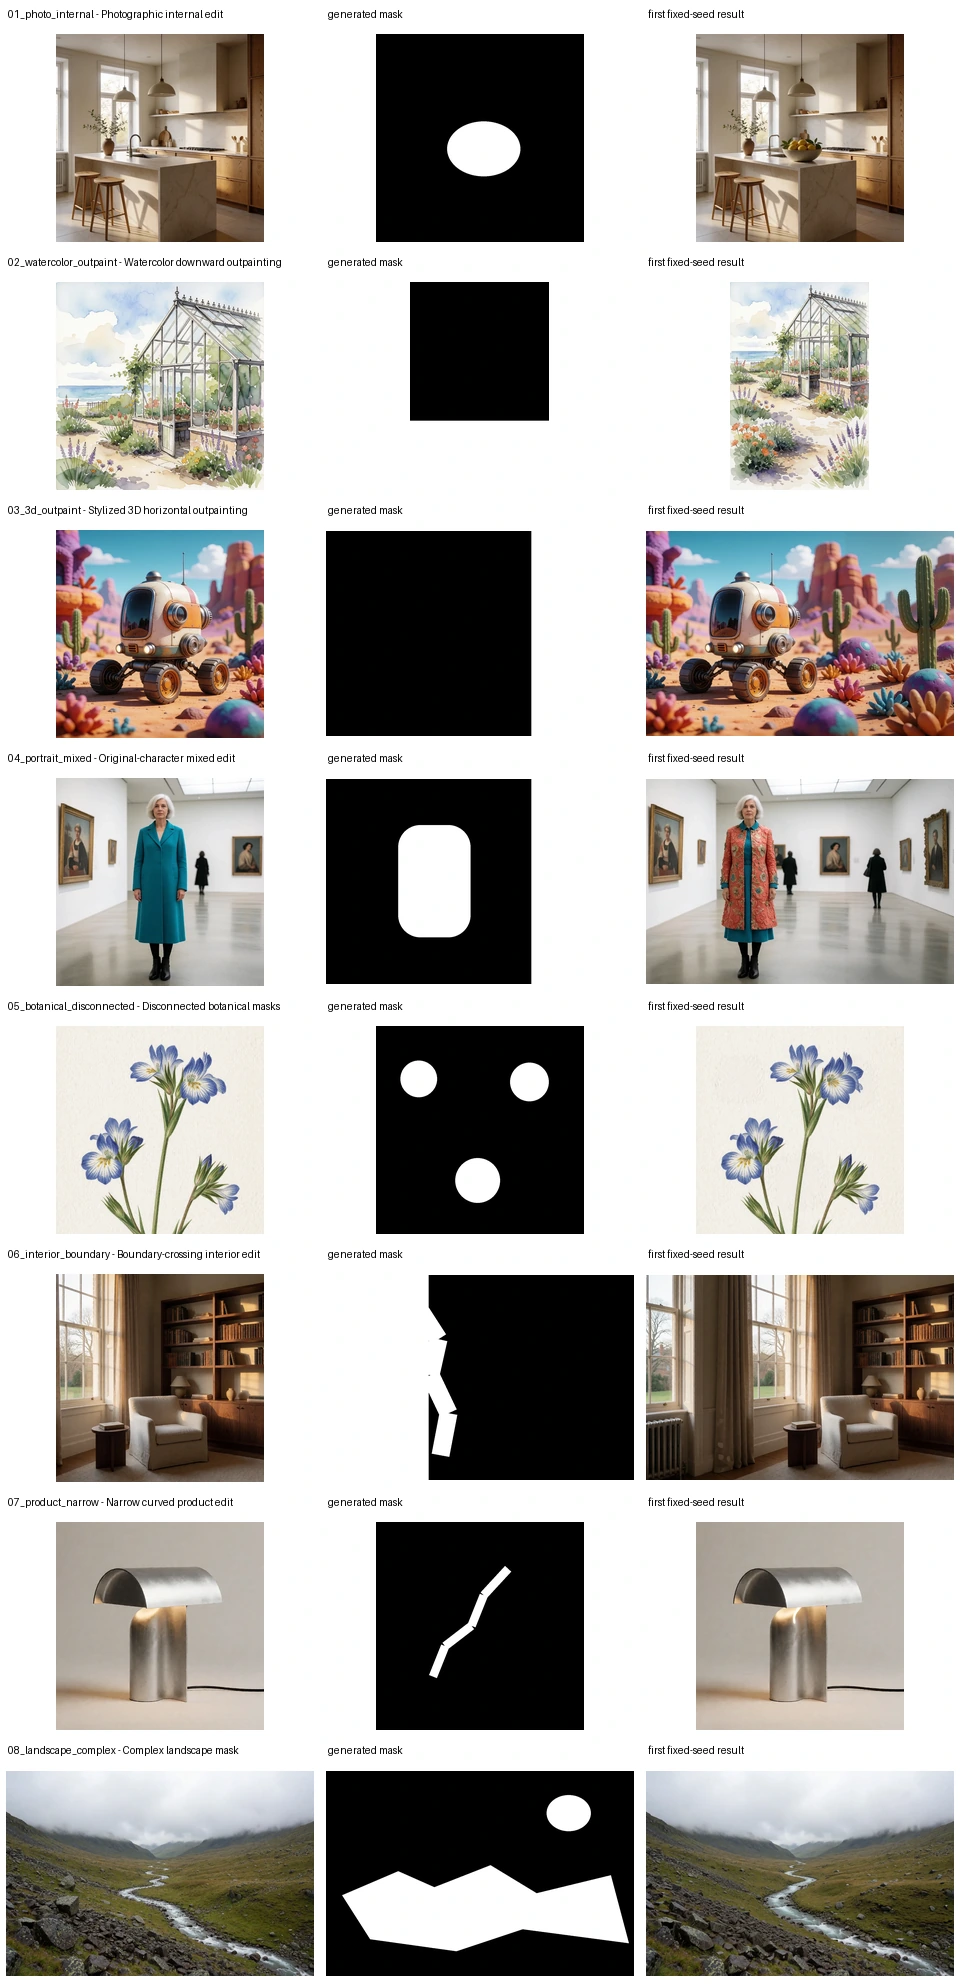
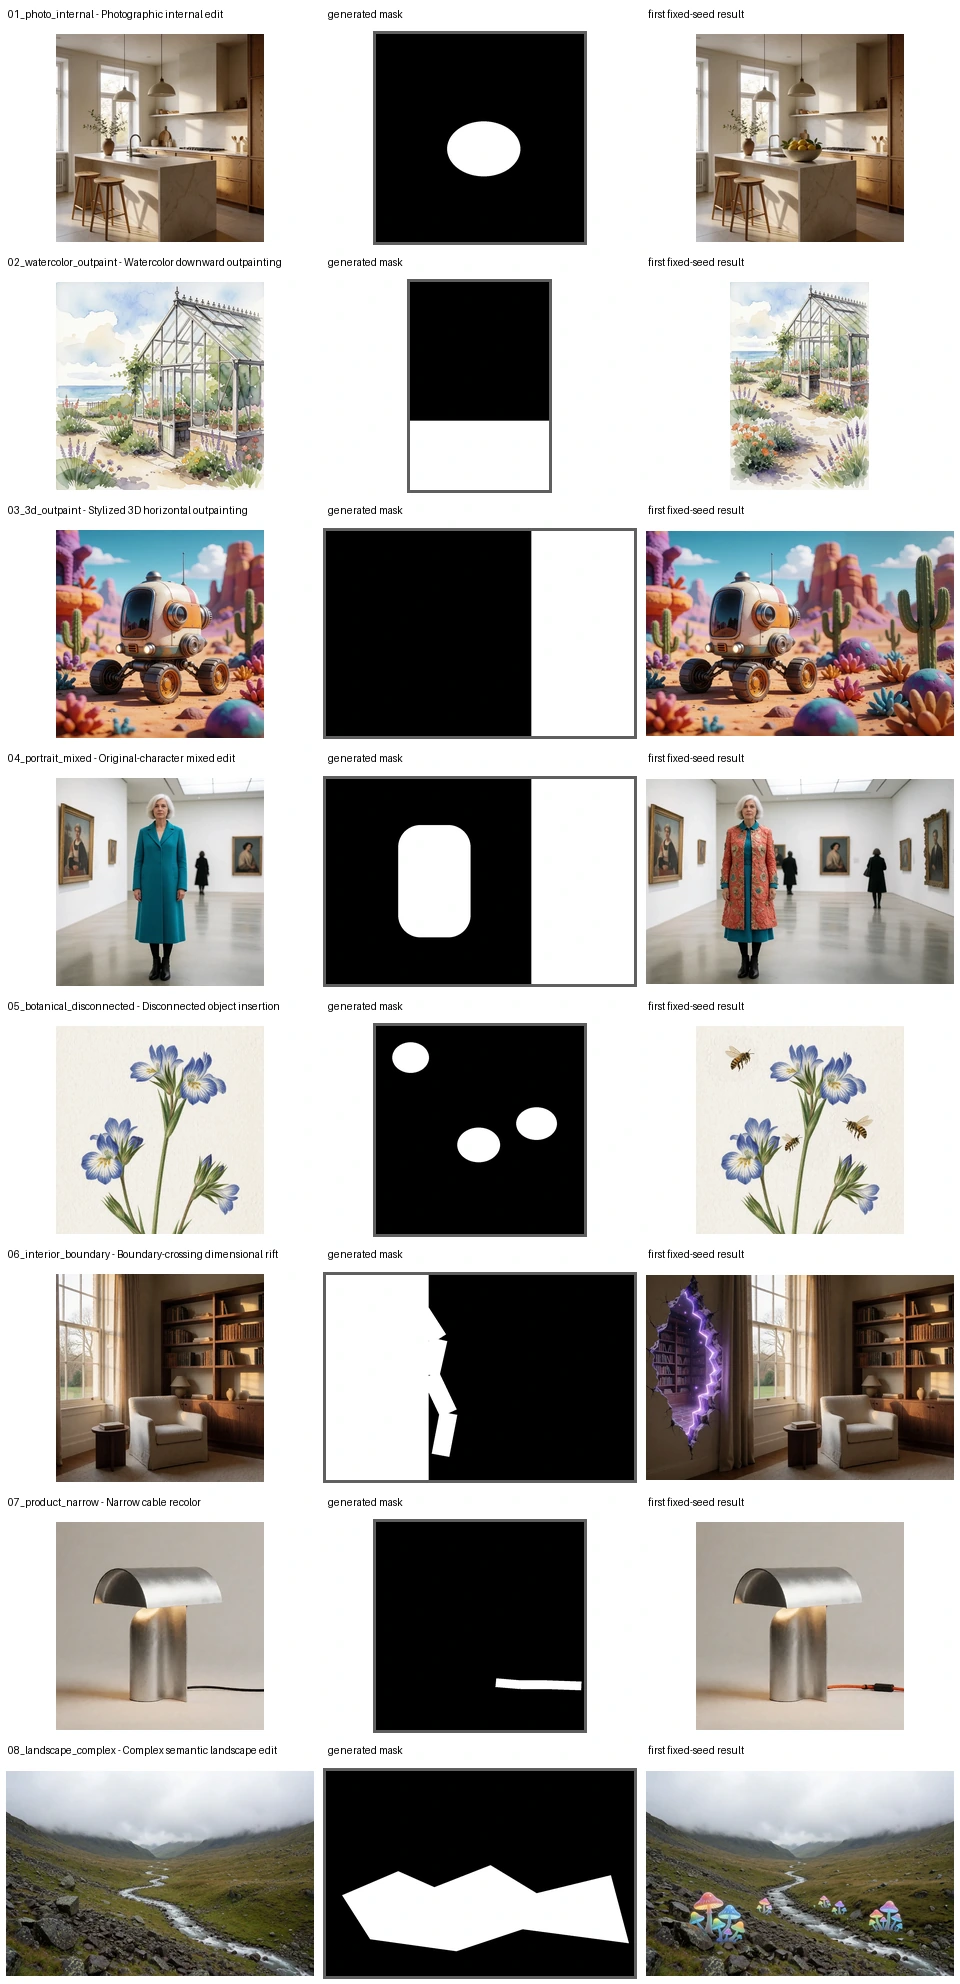
Align ComfyUI runtime and showcase

diff --git a/anypaint_helpers.py b/anypaint_helpers.py
@@ -2,6 +2,8 @@ from __future__ import annotations
 
 import math
 
+import numpy as np
+from PIL import Image
 import torch
 import torch.nn.functional as F
 
@@ -23,15 +25,21 @@ def _resize_mask(mask: torch.Tensor, height: int, width: int) -> torch.Tensor:
     return F.interpolate(mask[:, None].float(), (height, width), mode="nearest")[:, 0]
 
 
-def _resize_reference(image: torch.Tensor, max_edge: int) -> torch.Tensor:
-    _, height, width, _ = image.shape
-    scale = min(1.0, max_edge / max(height, width))
-    target_h = max(ALIGNMENT, int(round(height * scale / ALIGNMENT)) * ALIGNMENT)
-    target_w = max(ALIGNMENT, int(round(width * scale / ALIGNMENT)) * ALIGNMENT)
-    if (target_h, target_w) == (height, width):
-        return image
-    chw = image.movedim(-1, 1)
-    return F.interpolate(chw, (target_h, target_w), mode="bilinear", align_corners=False).movedim(1, -1)
+def _tensor_to_pil(image: torch.Tensor) -> Image.Image:
+    values = image.detach().cpu().clamp(0, 1).mul(255).round().to(torch.uint8).numpy()
+    return Image.fromarray(values[..., :3], mode="RGB")
+
+
+def _pil_to_tensor(image: Image.Image, device: torch.device) -> torch.Tensor:
+    values = np.asarray(image.convert("RGB"), dtype=np.uint8).copy()
+    return torch.from_numpy(values).to(device=device, dtype=torch.float32).div_(255.0)
+
+
+def _resize_reference(image: Image.Image, max_edge: int) -> Image.Image:
+    scale = min(1.0, max_edge / max(image.size))
+    width = max(ALIGNMENT, int(round(image.width * scale)) // ALIGNMENT * ALIGNMENT)
+    height = max(ALIGNMENT, int(round(image.height * scale)) // ALIGNMENT * ALIGNMENT)
+    return image.resize((width, height), Image.Resampling.LANCZOS)
 
 
 def _dilate(mask: torch.Tensor, radius: int) -> torch.Tensor:
@@ -78,26 +86,38 @@ def prepare_canvas(
     conditions = []
     generated_masks = []
     for index in range(batch):
-        pixels = source[index]
-        median = pixels.reshape(-1, 3).median(dim=0).values
-        known = median.view(1, 1, 3).expand(canvas_h, canvas_w, 3).clone()
-        known[top : top + source_h, left : left + source_w] = pixels
+        pixels = _tensor_to_pil(source[index])
+        pixel_values = np.asarray(pixels, dtype=np.uint8)
+        median = np.median(pixel_values.reshape(-1, 3), axis=0).round().astype(np.uint8)
+        known_values = np.empty((canvas_h, canvas_w, 3), dtype=np.uint8)
+        known_values[:] = median
+        known_values[top : top + source_h, left : left + source_w] = pixel_values
 
         generated = torch.ones((canvas_h, canvas_w), dtype=torch.float32, device=source.device)
         generated[top : top + source_h, left : left + source_w] = source_mask[index]
         if not bool(generated.any()):
             raise ValueError("the generated mask has no white pixels")
 
-        condition = known.clone()
-        preserved = condition[generated < 0.5]
-        fill = preserved.median(dim=0).values if preserved.numel() else median
-        condition[generated > 0.5] = fill
-        known_images.append(known)
-        conditions.append(condition)
+        generated_values = generated.detach().cpu().numpy() > 0.5
+        condition_values = known_values.copy()
+        preserved = condition_values[~generated_values]
+        fill = (
+            np.median(preserved, axis=0).round().astype(np.uint8)
+            if len(preserved)
+            else median
+        )
+        condition_values[generated_values] = fill
+        known_images.append(_pil_to_tensor(Image.fromarray(known_values), source.device))
+        conditions.append(
+            _pil_to_tensor(
+                _resize_reference(Image.fromarray(condition_values), reference_max_edge),
+                source.device,
+            )
+        )
         generated_masks.append(generated)
 
     known_image = torch.stack(known_images)
-    condition = _resize_reference(torch.stack(conditions), reference_max_edge)
+    condition = torch.stack(conditions)
     generated = torch.stack(generated_masks)
     keep = 1.0 - _dilate(generated, seam_px).clamp(0, 1)
     return condition, known_image, generated, keep, canvas_w, canvas_h

diff --git a/nodes.py b/nodes.py
@@ -152,8 +152,13 @@ class Krea2AnyPaintEncode:
         )
 
         known_latent = vae.encode(known_image[..., :3])
-        if known_latent.ndim != 4:
-            raise ValueError(f"AnyPaint expects a 4D image latent, got {tuple(known_latent.shape)}")
+        if known_latent.ndim not in (4, 5):
+            raise ValueError(f"AnyPaint expects a 4D or 5D image latent, got {tuple(known_latent.shape)}")
+        if known_latent.ndim == 5 and known_latent.shape[2] != 1:
+            raise ValueError(
+                "AnyPaint handles still images only; the latent time dimension must be 1, "
+                f"got {tuple(known_latent.shape)}"
+            )
         noise_mask = ah.token_aligned_noise_mask(
             keep_mask,
             known_latent.shape[-2],

diff --git a/README.md b/README.md
@@ -20,7 +20,12 @@ Restart ComfyUI, then place
 ## Requirements
 
 - A current ComfyUI build with native Krea 2 support.
-- Krea 2 Turbo diffusion model, Krea 2 Qwen3-VL CLIP, and Qwen Image VAE.
+- [`krea2_turbo_int8_convrot.safetensors`](https://huggingface.co/Comfy-Org/Krea-2/blob/main/diffusion_models/krea2_turbo_int8_convrot.safetensors)
+  in `ComfyUI/models/diffusion_models`.
+- [`qwen3vl_4b_fp8_scaled.safetensors`](https://huggingface.co/Comfy-Org/Krea-2/blob/main/text_encoders/qwen3vl_4b_fp8_scaled.safetensors)
+  in `ComfyUI/models/text_encoders`.
+- [`qwen_image_vae.safetensors`](https://huggingface.co/Comfy-Org/Krea-2/blob/main/vae/qwen_image_vae.safetensors)
+  in `ComfyUI/models/vae`.
 - [Krea 2 AnyPaint LoRA](https://huggingface.co/yijunwang2/krea2-anypaint/blob/main/krea2_anypaint_rank32.safetensors).
 
 No custom sampler and no final source composite are required.
@@ -73,6 +78,12 @@ KSampler -> VAE Decode -> Save Image
 
 Recommended Krea 2 Turbo settings: 8 steps, Euler, simple scheduler, CFG 1.0,
 LoRA strength 1.0, VLM reference enabled, K/V cache enabled.
+
+This graph was validated end to end with the three linked Comfy-Org model
+files. The preprocessing, mask convention, reference placement, sigma schedule,
+and per-step known-region replacement match the Diffusers example and the
+DeepMachine backend. Quantized runtimes may differ at the pixel level from the
+portable BF16 example.
 
 The output is the raw model decode. Do not add the old registered-outpaint
 composite node: AnyPaint preserves known pixels during every denoising step.
